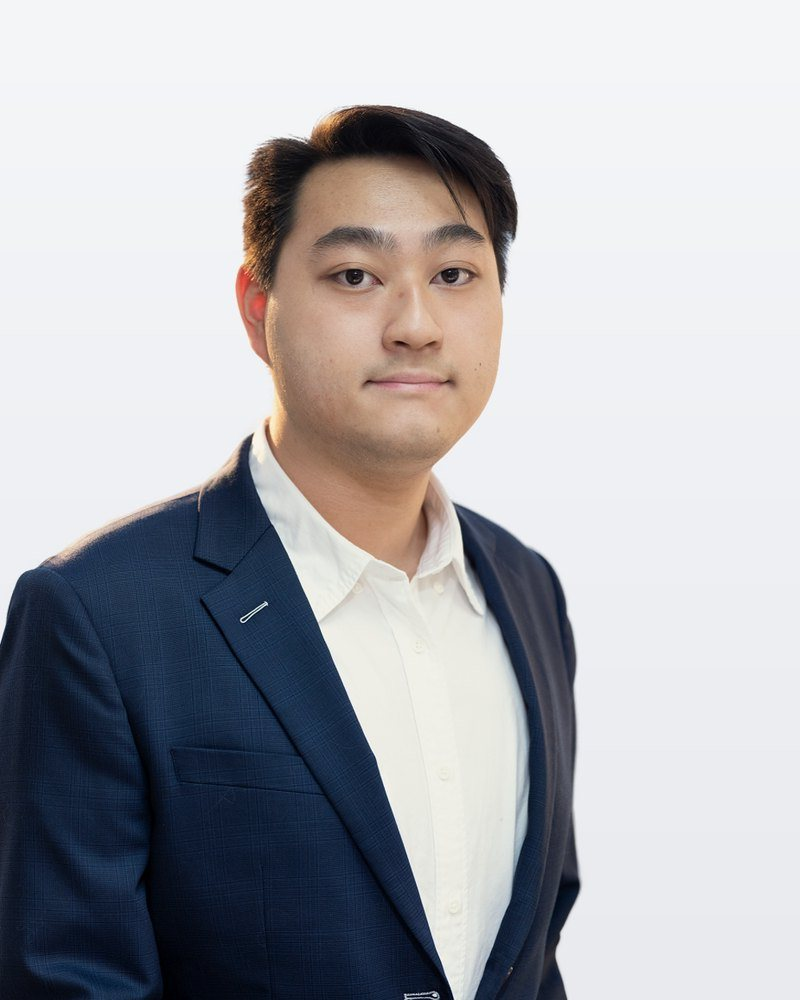
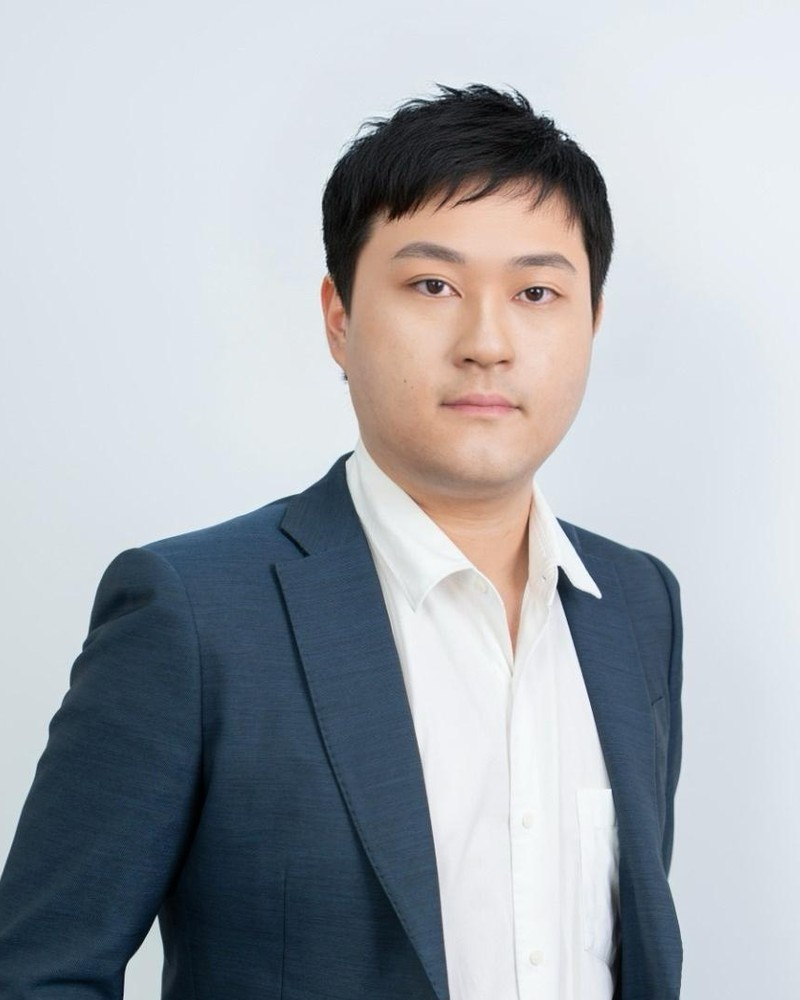
Replace Alan Ng portrait with new 800x1000 photo (cache-bust v5)

diff --git a/team-alan.html b/team-alan.html
@@ -69,7 +69,7 @@
 <div class="profile-page">
     <a class="back-link" href="index.html#team"><svg class="ico ico-arrow-up ico-back" aria-hidden="true" focusable="false"><use href="#i-arrow-up"/></svg><span class="en-inline">Back to Team</span><span class="cn-inline">返回團隊</span></a>
     <div class="profile-header">
-        <img class="profile-photo" src="images/team/alan.jpg?v=4" alt="Mr. Alan Ng" decoding="async">
+        <img class="profile-photo" src="images/team/alan.jpg?v=5" alt="Mr. Alan Ng" decoding="async">
         <div>
             <h1 class="profile-name">Mr. Alan Ng <span class="cn-inline">吳仲文先生</span></h1>
             <div class="profile-title"><span class="en-inline">Litigation Officer</span><span class="cn-inline">訴訟主任</span></div>

diff --git a/index-v4.html b/index-v4.html
@@ -530,7 +530,7 @@
         </div>
         <!-- Alan Ng -->
         <div class="team-card" data-card-toggle>
-            <img class="team-photo" loading="lazy" decoding="async" src="images/team/alan.jpg?v=4" width="800" height="1000" alt="Mr. Alan Ng">
+            <img class="team-photo" loading="lazy" decoding="async" src="images/team/alan.jpg?v=5" width="800" height="1000" alt="Mr. Alan Ng">
             <div class="team-info">
                 <h3>Mr. Alan Ng <span class="cn-inline">吳仲文先生</span></h3>
                 <div class="role en">Litigation Officer</div>

diff --git a/index.html b/index.html
@@ -530,7 +530,7 @@
         </div>
         <!-- Alan Ng -->
         <div class="team-card" data-card-toggle>
-            <img class="team-photo" loading="lazy" decoding="async" src="images/team/alan.jpg?v=4" width="800" height="1000" alt="Mr. Alan Ng">
+            <img class="team-photo" loading="lazy" decoding="async" src="images/team/alan.jpg?v=5" width="800" height="1000" alt="Mr. Alan Ng">
             <div class="team-info">
                 <h3>Mr. Alan Ng <span class="cn-inline">吳仲文先生</span></h3>
                 <div class="role en">Litigation Officer</div>

diff --git a/sw.js b/sw.js
@@ -4,7 +4,7 @@
  * is not the current CACHE, and skipWaiting()/clients.claim() make the new
  * worker take over promptly so users do not get stuck on a stale version.
  */
-const CACHE = 'ccm-v4-20261110b';
+const CACHE = 'ccm-v4-20261110c';
 const ASSETS = [
   './',
   './index.html',
